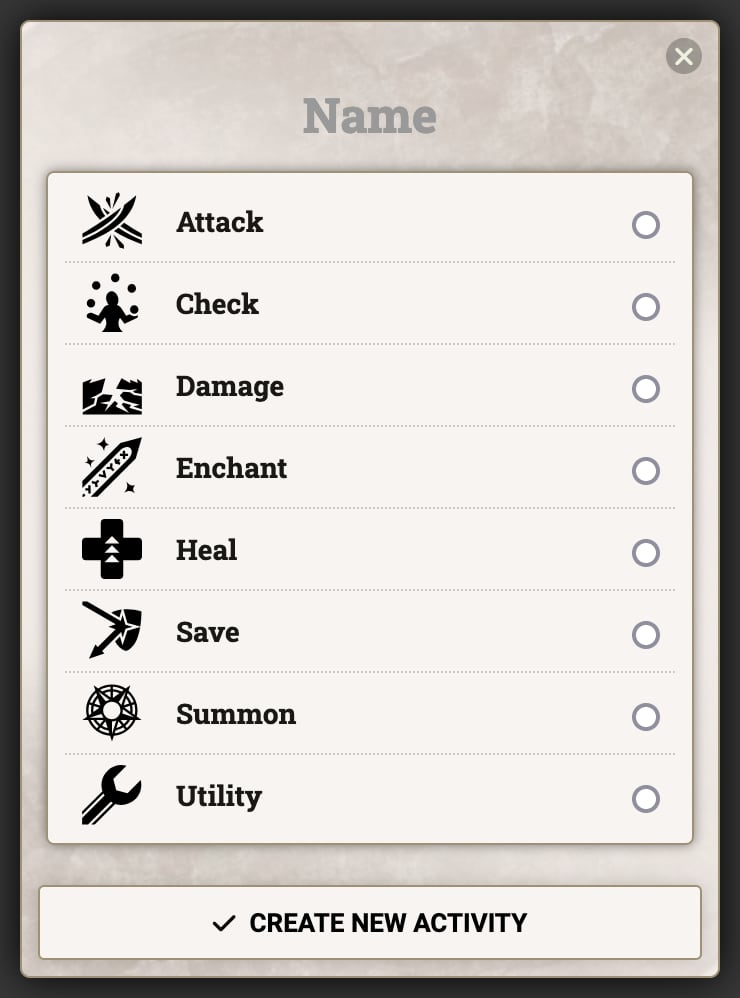
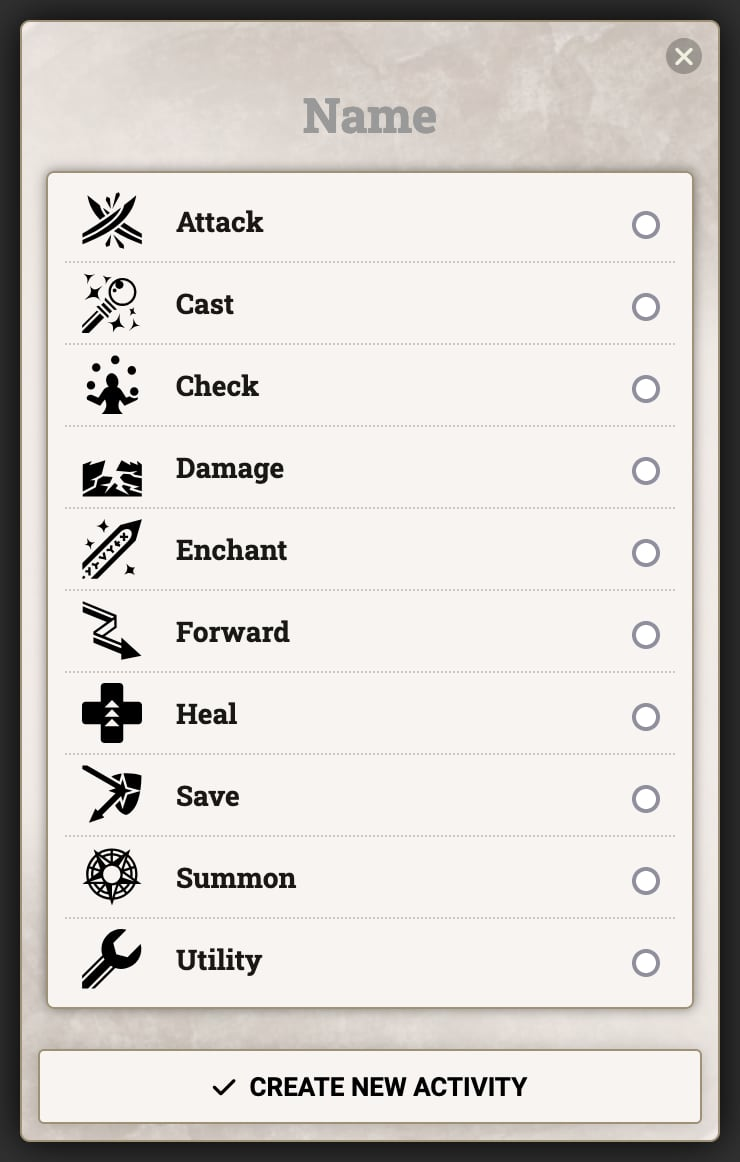
Document Cast & Forward activities

Changed region(s): [[0.0311, 0.0621, 0.9635, 0.994], [0.0311, 0.0, 0.9635, 0.0932]]

diff --git a/wiki/Activity-Type-Cast.md b/wiki/Activity-Type-Cast.md
@@ -1,0 +1,35 @@
+![Up to date as of 4.1.0](https://img.shields.io/static/v1?label=dnd5e&message=4.1.0&color=informational)
+
+The Cast activity allows for casting a spell through an item.
+
+
+## Spell Listing
+
+When items that contain Cast activities are added to a character the spells they offer appear in a new section of the spell list called Item Spells. If an item requires attunement, then these spells will only be listed if the item is attuned.
+
+![Cast Sheet - Identity Tab](https://raw.githubusercontent.com/foundryvtt/dnd5e/publish-wiki/wiki/images/activities/cast-spellbook.jpg)
+
+
+## Casting Spells
+
+There are two ways to cast spells offered by the Cast activity, either by activating the Cast activity on the item itself or by clicking the spell in the Item Spells section of the character sheet. Both of these method will behave the same, bringing up a dialog for any configuration required and handling spending any charges on the item.
+
+
+## Configuring Casts
+
+The Cast activity can be created using the standard Create Activity dialog, or by dragging a spell onto the activities tab of another item, which will create a new Cast activity with that spell already configured.
+
+After creating the Cast activity the configuration sheet will open on the "Identity" tab. In addition to the standard activity options (see the [Activities Overview](Activities.md) for more details), Cast also includes the *Display in Spellbook* option to control whether the spell provided by this activity is listed in the Item Spells section of the spellbook. If unchecked, then players can still cast the spell directly from the item.
+
+![Cast Sheet - Identity Tab](https://raw.githubusercontent.com/foundryvtt/dnd5e/publish-wiki/wiki/images/activities/cast-identity.jpg)
+
+### Casting Details
+
+The "Spell" tab contains the rest of the unique properties for the Cast activity, including what spell will be cast and how it will be cast.
+
+![Cast Sheet - Spell Tab](https://raw.githubusercontent.com/foundryvtt/dnd5e/publish-wiki/wiki/images/activities/cast-effect.jpg)
+
+The "Casting Details" section contains options that affect how casting will occur
+- *Casting Level*: Sets the base level at which the spell is cast. Increasing it ensures the spell is always cast at at least that level, and any scaling will be on top of the casting level
+- *Ignored Properties*: Properties on the spell that will be ignored when casting through this item. Removing "Concentration" property here is not enough to ensure the spell doesn't require concentration, the Duration in the "Activation" tab will also need to be overridden
+- *Override Values*: If checked will display additional options to replace the attack bonus and save DC for the spell. By default spells will use the character's spell attack bonus and save DC, but certain items include fixed values which should be entered in the revealed fields

diff --git a/wiki/Activity-Type-Forward.md b/wiki/Activity-Type-Forward.md
@@ -1,0 +1,12 @@
+![Up to date as of 4.1.0](https://img.shields.io/static/v1?label=dnd5e&message=4.1.0&color=informational)
+
+The Forward activity allows for triggering another activity on the same item with different consumption and scaling.
+
+
+## Configuring Forward
+
+After creating the Forward activity the configuration sheet will open on the "Identity" tab. The sheet for Forward is simplified compared to other activity sheets, not featuring any activation, duration, or targeting information. In the "Consumption" tab you can configure consumption, uses, and recovery like normal, and any scaling set up will affect the activity being used.
+
+On the "Effect" tab there is only a single option that allows for selecting which activity will be triggered by the Forward activity when used.
+
+![Forward Sheet - Effect Tab](https://raw.githubusercontent.com/foundryvtt/dnd5e/publish-wiki/wiki/images/activities/forward-effect.jpg)

diff --git a/wiki/Activities.md b/wiki/Activities.md
@@ -17,9 +17,11 @@ Clicking the plus button brings up the Create Activity dialog with a list of act
 
 There are a variety of activity types offered by the DnD5e system, and modules can contribute their own custom types. More details on each type can be found on their own pages:
 - [Attack](Activity-Type-Attack.md): Make an attack roll and roll damage
+- [Cast](Activity-Type-Cast.md): Cast a spell through an item
 - [Check](Activity-Type-Check.md): Perform an ability check
 - [Damage](Activity-Type-Damage.md): Damage a creature without a check
 - [Enchant](Activity-Type-Enchant.md): Apply an enchantment to an item
+- [Forward](Activity-Type-Forward.md): Trigger another activity with different consumption & scaling
 - [Heal](Activity-Type-Heal.md): Heal a creature
 - [Save](Activity-Type-Save.md): Impose a saving throw roll and roll damage
 - [Summon](Activity-Type-Summon.md): Summon a new creature to the scene

diff --git a/wiki/Home.md b/wiki/Home.md
@@ -4,9 +4,11 @@
 - [Activities Overview](Activities.md)
   - Activity Types
     - [Activity Type: Attack](Activity-Type-Attack.md)
+    - [Activity Type: Cast](Activity-Type-Cast.md)
     - [Activity Type: Check](Activity-Type-Check.md)
     - [Activity Type: Damage](Activity-Type-Damage.md)
     - [Activity Type: Enchant](Activity-Type-Enchant.md)
+    - [Activity Type: Forward](Activity-Type-Forward.md)
     - [Activity Type: Heal](Activity-Type-Heal.md)
     - [Activity Type: Save](Activity-Type-Save.md)
     - [Activity Type: Summon](Activity-Type-Summon.md)
